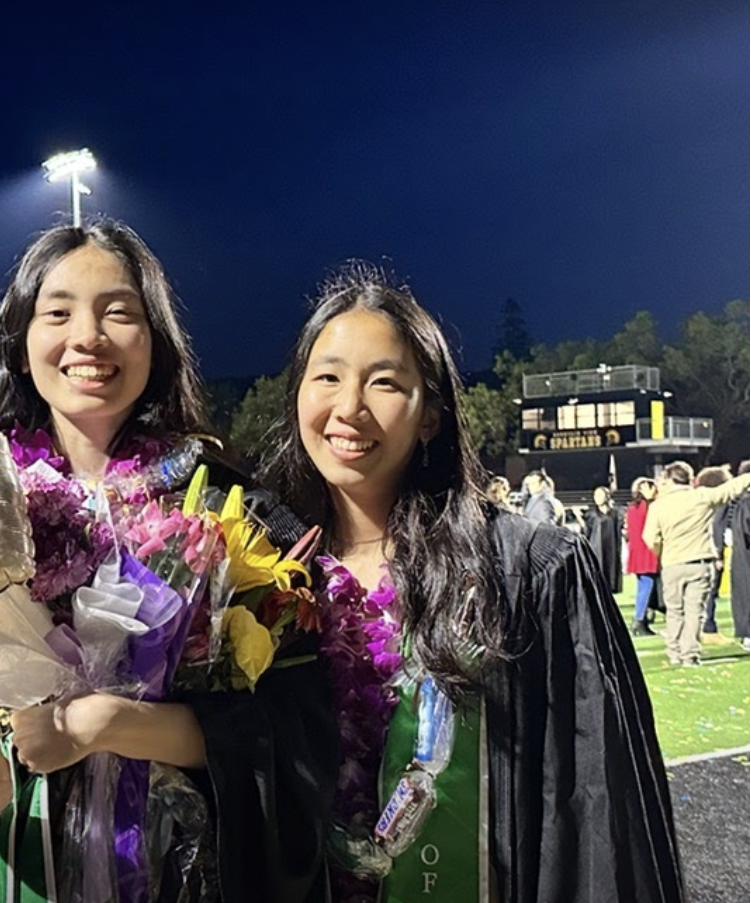
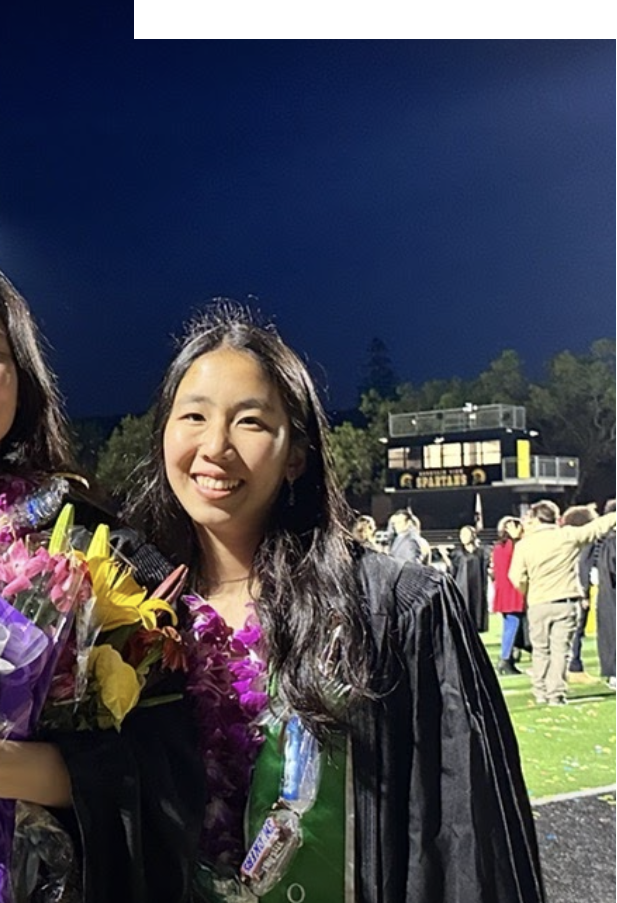
changed photo

diff --git a/app/team/page.tsx b/app/team/page.tsx
@@ -121,7 +121,7 @@ const TEAM_DATA: TeamMember[] = [
     },
     {
         id: "sonika",
-        name: "Sonika",
+        name: "Sonika Potnis",
         role: "Software Engineer",
         image: "/team/sonika.png",
         tags: ["Software Engineer"],
